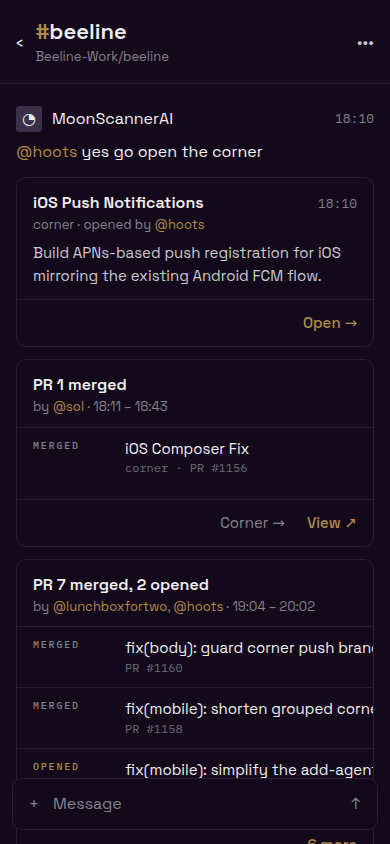
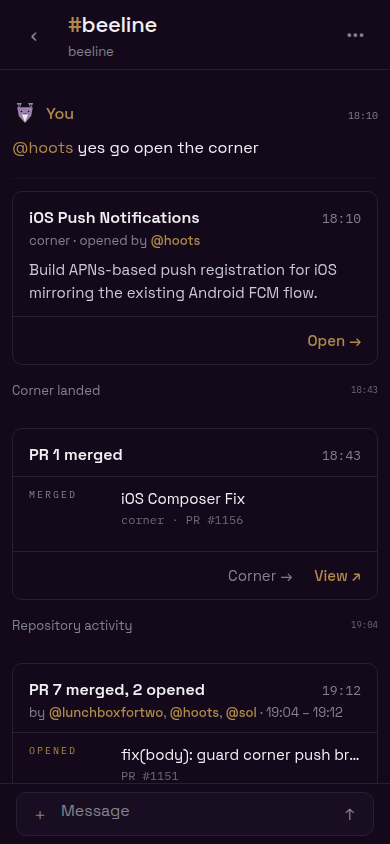
fix(mobile): ellipsize transcript card titles

diff --git a/apps/mobile/sources/components/buzz/TranscriptCard.tsx b/apps/mobile/sources/components/buzz/TranscriptCard.tsx
@@ -71,7 +71,9 @@ export function TranscriptCard({
         {identity ? <View style={styles.identity}>{identity}</View> : null}
         <View style={styles.headCopy}>
           <View style={styles.titleLine}>
-            <Text style={styles.title}>{title}</Text>
+            <Text ellipsizeMode="tail" numberOfLines={1} style={styles.title}>
+              {title}
+            </Text>
             {stamp ? <Text style={styles.stamp}>{stamp}</Text> : null}
           </View>
           {subline ? (
@@ -105,7 +107,7 @@ export function TranscriptCard({
                   {row.state}
                 </Text>
                 <View style={styles.rowCopy}>
-                  <Text numberOfLines={1} style={styles.rowTitle}>
+                  <Text ellipsizeMode="tail" numberOfLines={1} style={styles.rowTitle}>
                     {row.title}
                   </Text>
                   <Text numberOfLines={1} style={styles.rowKind}>
@@ -202,7 +204,12 @@ const styles = StyleSheet.create((theme) => {
     },
     identity: { width: metric.identitySize },
     headCopy: { flex: 1, minWidth: 0 },
-    titleLine: { flexDirection: 'row', alignItems: 'baseline', gap: card.space.sm },
+    titleLine: {
+      minWidth: 0,
+      flexDirection: 'row',
+      alignItems: 'baseline',
+      gap: card.space.sm,
+    },
     title: { ...card.type.bodyStrong, color: card.textPrimary, flex: 1, minWidth: 0 },
     handle: { ...card.type.body, fontFamily: card.proseMedium, color: card.accent },
     handleMeta: { ...card.type.meta, fontFamily: card.proseMedium, color: card.accent },
@@ -251,7 +258,12 @@ const styles = StyleSheet.create((theme) => {
     rowStateWaiting: { color: card.accent },
     rowStateFailed: { color: card.diffRemoved },
     rowCopy: { flex: 1, minWidth: 0 },
-    rowTitle: { ...card.type.body, fontSize: metric.rowTitleSize, color: card.textPrimary },
+    rowTitle: {
+      ...card.type.body,
+      minWidth: 0,
+      fontSize: metric.rowTitleSize,
+      color: card.textPrimary,
+    },
     rowKind: { ...card.type.machine, fontSize: metric.rowKindSize, color: card.ledgerGhost },
     footer: {
       minHeight: metric.footerMinHeight,

diff --git a/apps/mobile/sources/app/(app)/beeline/chat/RoomMessageVariants.test.tsx b/apps/mobile/sources/app/(app)/beeline/chat/RoomMessageVariants.test.tsx
@@ -344,6 +344,17 @@ describe('Room message variant components', () => {
           node.type === 'Pressable' && /^transcript-card-row-/.test(node.props.testID ?? ''),
       ),
     ).toHaveLength(3);
+    const rowTitle = renderer.root.find(
+      (node: ReactTestInstance) =>
+        node.type === 'Text' && node.children.includes('Duplicate draft settle'),
+    );
+    expect(rowTitle.props).toMatchObject({ ellipsizeMode: 'tail', numberOfLines: 1 });
+    expect(rowTitle.parent?.parent?.props.style).toMatchObject({ flex: 1, minWidth: 0 });
+    const cardTitle = renderer.root.find(
+      (node: ReactTestInstance) =>
+        node.type === 'Text' && node.children.includes('PR 4 merged, 1 failed'),
+    );
+    expect(cardTitle.props).toMatchObject({ ellipsizeMode: 'tail', numberOfLines: 1 });
     act(() => renderer.root.findByProps({ testID: 'transcript-card-row-corner' }).props.onPress());
     expect(onOpenCorner).toHaveBeenCalledWith('corner-1126');
     const disclosure = renderer.root.findByProps({ testID: 'notification-run-expand-message' });

diff --git a/apps/mobile/evidence/transcript-card-system/fixture.html b/apps/mobile/evidence/transcript-card-system/fixture.html
@@ -158,6 +158,7 @@
         min-width: 0;
       }
       .titleline {
+        min-width: 0;
         display: flex;
         gap: 8px;
         align-items: baseline;
@@ -170,6 +171,9 @@
         font-size: 16px;
         line-height: 1.35;
         font-weight: 600;
+        white-space: nowrap;
+        overflow: hidden;
+        text-overflow: ellipsis;
       }
       h2 .mention {
         font-weight: 500;
@@ -196,6 +200,9 @@
         grid-template-columns: 92px 1fr;
         padding: 10px 16px;
         border-top: 1px solid var(--border);
+      }
+      .row > :last-child {
+        min-width: 0;
       }
       .state {
         font: 500 10px/1.6 var(--mono);

diff --git a/apps/mobile/evidence/transcript-card-system/README.md b/apps/mobile/evidence/transcript-card-system/README.md
@@ -1,8 +1,10 @@
-# TranscriptCard visual proof
+# TranscriptCard real-app visual proof
 
-The deterministic fixture uses the production Obsidian tokens and the exact
-`TranscriptCard` geometry. Chrome DevTools captured both phone views at
-390×844 and the desktop view at 1440×900.
+These captures come from the real Expo web app signed in as the development
+`local:captain` identity against a local `@beeline/server`. The Room was loaded
+through the authenticated phone API after applying [`seed.sql`](./seed.sql), so
+the speaker and ask tiles are the production `IdentityMark` faces. Chrome
+DevTools captured both phone views at 390×844 and the desktop view at 1440×900.
 
 | Captain-approved mock                              | Implementation proof                                    |
 | -------------------------------------------------- | ------------------------------------------------------- |
@@ -12,6 +14,11 @@ The deterministic fixture uses the production Obsidian tokens and the exact
 ![Desktop implementation](desktop-1440x900.png)
 
 The two phone captures collectively show the corner-open record, one-row merge
-fold, collapsed many-row PR fold, workflow failure row, pending permission ask,
-pending script grant, and settled ask. The desktop capture uses the same card
-anatomy and transcript fixture.
+fold, collapsed many-row PR fold with `6 more`, red failed-check row, pending
+permission ask, pending script grant, settled ask, and target-branch ask. The
+long PR row measures 240px inside a 366px card: its tail ellipsis ends with a
+17px right inset (the 16px padding plus the card hairline). The desktop capture
+uses the same Room, app bundle, and `TranscriptCard` primitive.
+
+[`fixture.html`](./fixture.html) remains only a deterministic geometry harness;
+none of the Demonstrated screenshots are captured from it.
